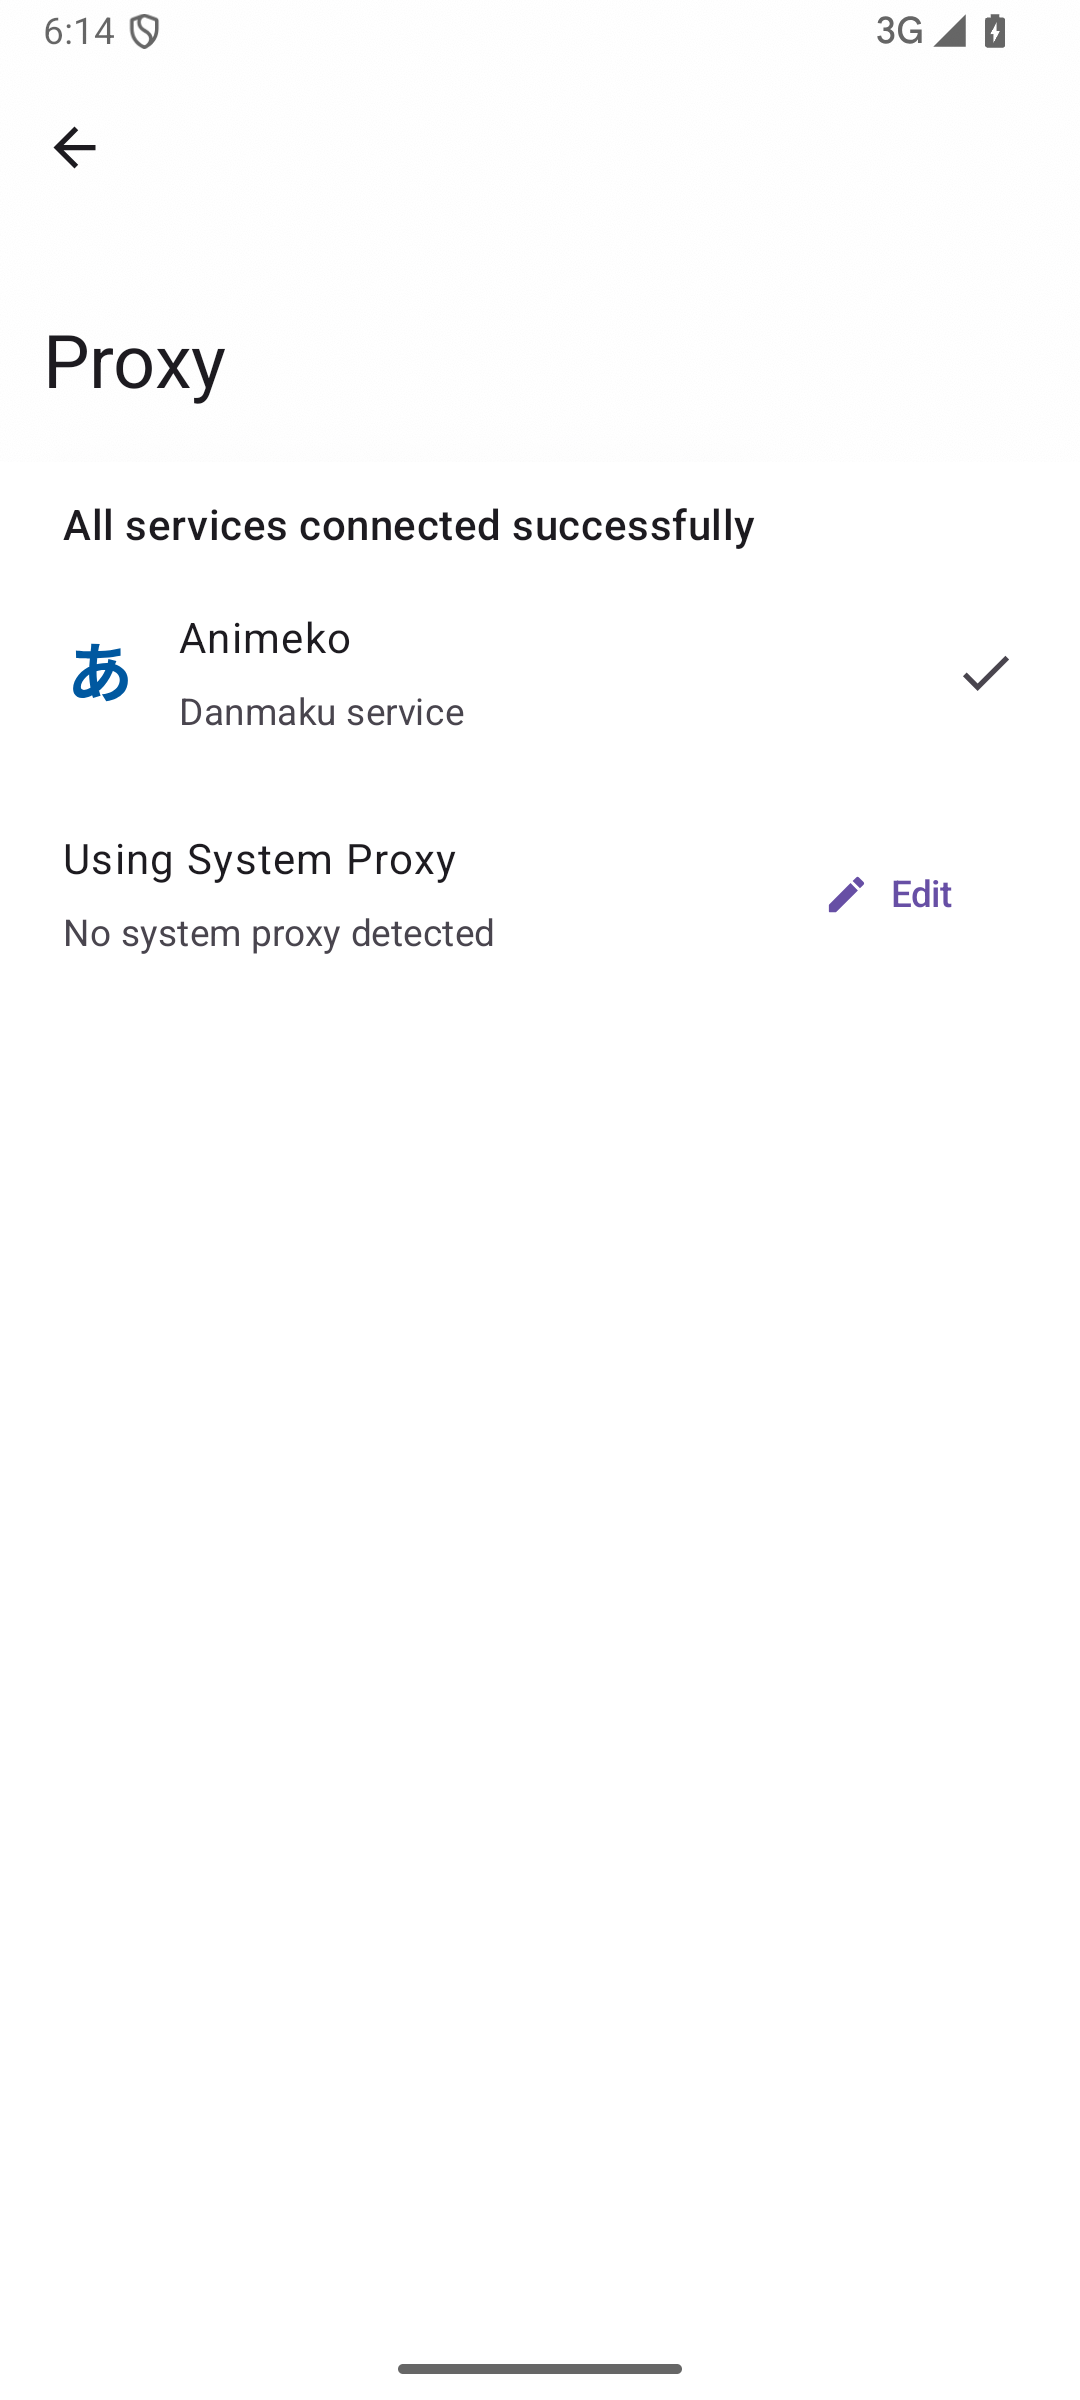
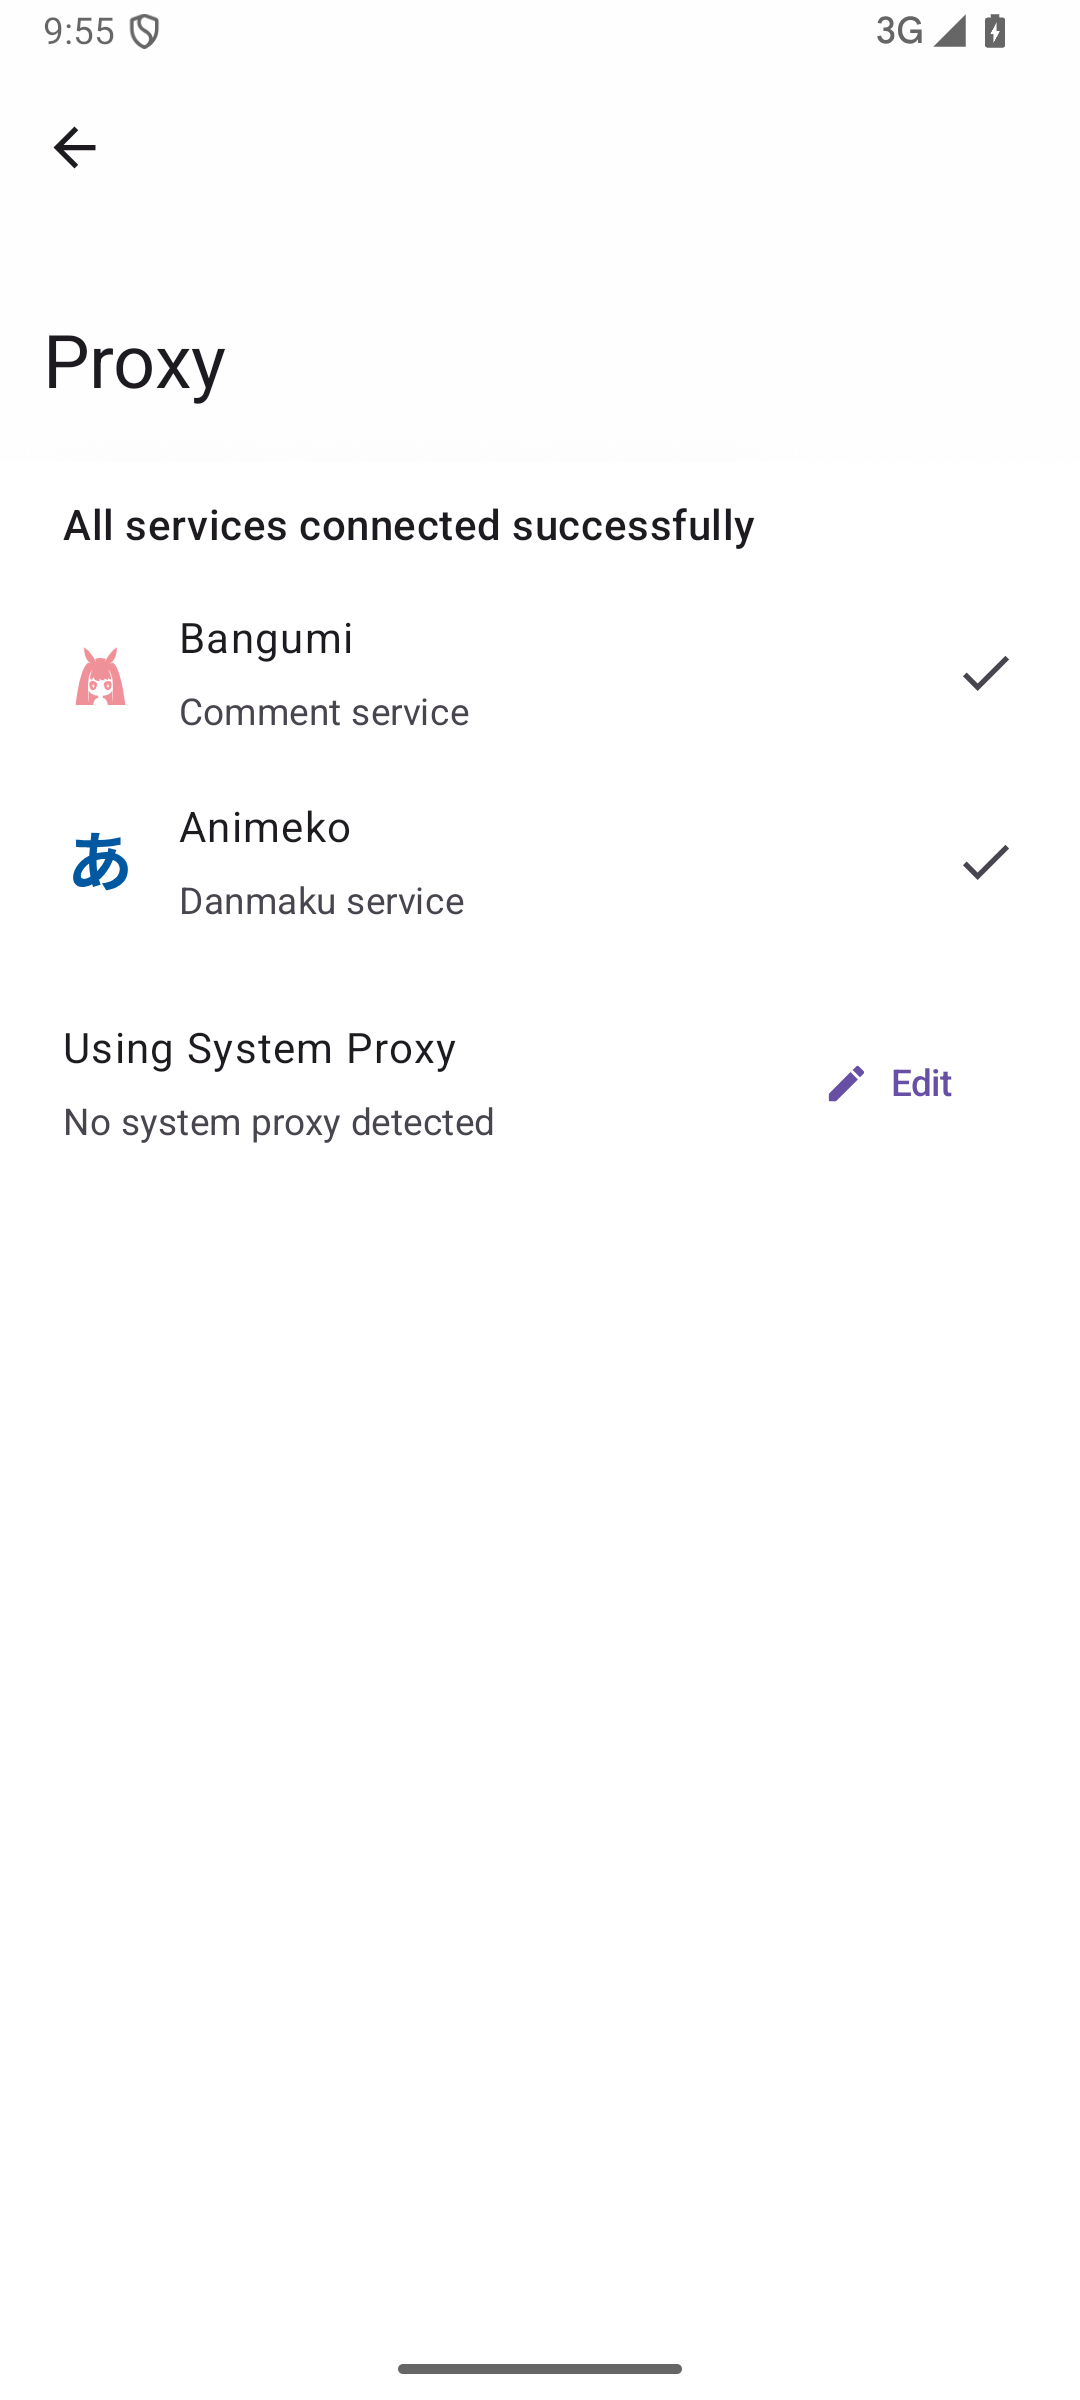
fix(network): use Bangumi Next mirror

diff --git a/datasource/bangumi/src/commonMain/kotlin/BangumiClient.kt b/datasource/bangumi/src/commonMain/kotlin/BangumiClient.kt
@@ -91,12 +91,12 @@ val BangumiClient.turnstileBaseUrl: String
     get() = "$BANGUMI_NEXT_API_HOST/p1/turnstile"
 
 private const val BANGUMI_API_HOST = "https://api.bgm.tv"
-private const val BANGUMI_NEXT_API_HOST = "https://next.bgm.tv" // dev.bgm38.com for testing
+private const val BANGUMI_NEXT_API_HOST = "https://next.bangumi.lol"
 private const val BANGUMI_HOST = "https://bgm.tv"
 
 class BangumiClientImpl(
     /**
-     * 总是带有 token
+     * 不会自动携带 Bangumi token. 需要 token 的请求会显式添加, 并继续使用官方 API 域名.
      */
     private val client: ScopedHttpClient,
 ) : BangumiClient {

diff --git a/app/shared/ui-settings/src/commonMain/kotlin/ui/settings/SettingsViewModel.kt b/app/shared/ui-settings/src/commonMain/kotlin/ui/settings/SettingsViewModel.kt
@@ -206,7 +206,7 @@ class SettingsViewModel : AbstractSettingsViewModel(), KoinComponent {
     private val proxyTester = ProxyTester(
         clientProvider = clientProvider,
         flowScope = backgroundScope,
-        serviceIds = setOf(ServiceConnectionTesters.ID_ANI),
+        serviceIds = setOf(ServiceConnectionTesters.ID_ANI, ServiceConnectionTesters.ID_BANGUMI_NEXT),
     )
 
     private val configureProxyUiState = combine(
